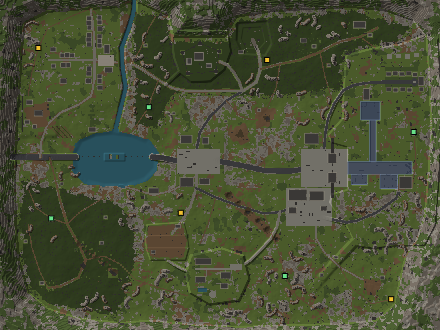
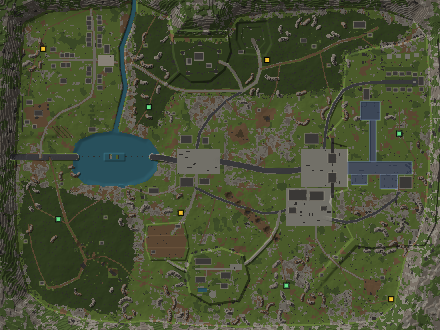
Green Gate: original layout (gatekeeping valley)
A new map replacing the traced one: the highway crosses Lake Liquidity
on a causeway whose middle spans fell in, passes the Toll Booth of
Eternal Hold Music and ends at the Gatekeeping Department; Tunnel
Vision runs behind it into the Shelf plateau with walkable-lid halls.
Terrace village, hill fort, quarry and sawmill in the north; mesa
retreat, orchard and crash site in the south. 28 joke-named POIs (all
quest POI ids kept), 4 airshafts and 4 Doggy Doors, all key rooms,
boss arenas and the Forgot My Password printers and control room.
Design note in docs/maps/green_gate.md.

Claude-Session: https://claude.ai/code/session_0176WVouALqdyXwiLjshbKz3

diff --git a/src/maps/green_gate.js b/src/maps/green_gate.js
@@ -182,7 +182,7 @@ export default {
       [730, 80, 810, 170], [870, 40, 960, 110], [630, 260, 700, 320], [360, 540, 480, 660], [460, 610, 630, 770], [540, 470, 720, 620], [170, 590, 310, 710], [80, 690, 150, 750],
       [880, 640, 1000, 780], [340, 440, 420, 500], [210, 310, 270, 345], [570, 300, 640, 370], [780, 620, 880, 720]];
     for (const r of RES) mark(...r, 4);
-    for (const [x, z, r] of [[1034, 330, 12], [372, 268, 12], [146, 548, 12], [716, 714, 12], [668, 150, 6], [452, 532, 6], [978, 748, 6], [108, 122, 6], ...SPAWNS.map(([x, z]) => [x, z, 12])]) mark(x - r, z - r, x + r, z + r, 4);
+    for (const [x, z, r] of [[998, 334, 12], [372, 268, 12], [146, 548, 12], [716, 714, 12], [668, 150, 6], [452, 532, 6], [978, 748, 6], [108, 122, 6], ...SPAWNS.map(([x, z]) => [x, z, 12])]) mark(x - r, z - r, x + r, z + r, 4);
     for (const [pts, hw] of [[HWY_W, 9], [HWY_E, 9], [HWY_C, 10], [R_VILLAGE, 5], [R_VX, 4], [R_SPURW, 5], [R_FORT, 5], [R_NORTH, 5], [R_NE, 5], [R_GLADE, 4], [R_SHELFN, 5], [R_SHELFS, 5],
       [R_SOUTH, 5], [R_SE, 5], [R_PEAK, 5], [R_LAKE, 4], [R_SW, 4], [R_SEE, 4]]) markLine(pts, hw, 1);
     markLine(CREEK, 10, 8); markPoly(LAKE, 8); markLine([[190, 392], [380, 392]], 9, 1);
@@ -286,7 +286,7 @@ export default {
       [[850, 668], [880, 720], [930, 760], [978, 748]],
       [[300, 464], [250, 500], [200, 530], [168, 560]],
       [[120, 720], [100, 680], [80, 620], [70, 560]],
-      [[1000, 260], [1034, 330], [1040, 400], [1030, 470]],
+      [[1000, 260], [998, 334], [1040, 400], [1030, 470]],
     ]) { const P = resample(t, 5); w.path(P, 2.6, 'dirt'); markLine(P, 1.6, 1); }
 
     // ======================================================================== 3. STRUCTURE HELPERS
@@ -799,7 +799,7 @@ export default {
       for (const [x, z] of [[908, 262], [908, 284], [930, 284]]) w.prop('gg_coolers', x, z, 0, { surface: true, solid: true });
       w.prop('gg_bb_cloud', 954, 252, 0, { solid: true });
       for (const [x, z] of [[952, 272], [952, 286]]) lightPost(x, z, 0x9ad0ff);
-      airshaftSite('rage_quit_airshaft', 'Rage Quit Airshaft', 1034, 330, faceTo(1034, 330, 1020, 330));
+      airshaftSite('rage_quit_airshaft', 'Rage Quit Airshaft', 998, 334, faceTo(998, 334, 984, 334));
       w.arkSpawn('surveyor', 990, 330, { count: 1, patrol: [[960, 300], [1040, 280], [1050, 400], [960, 380]] });
       w.arkSpawn('rocketeer', 960, 360, { count: 1, patrol: [[900, 320], [1040, 320], [1040, 520], [900, 520]] });
       w.zone('Shelf', SHELF, { tier: 2 });
@@ -1306,7 +1306,7 @@ export default {
       w.prop('gg_hottub', 958, 708, 0, { solid: true });
       for (const [x, z, k] of [[916, 708, 'backpack'], [940, 700, 'suitcase'], [912, 728, 'basket'], [946, 732, 'medical_bag']]) w.container(k, x, z, 0, { tier: 1, poi: 'glamping_site' });
       w.arkSpawn('pop', 930, 720, { count: 2 }); w.arkSpawn('hornet', 930, 720, { count: 1, patrol: [[890, 680], [970, 680], [980, 760], [900, 770]] });
-      w.poi('glamping_site', 'Glamping Pyramid Scheme', 930, 716, 30, { tier: 1 });
+      w.poi('glamping_site', 'Glamping Pyramid Scheme', 930, 730, 32, { tier: 1 });
       hatchSite('glampsite_doggy_door', 'Glampsite Doggy Door', 978, 748, faceTo(978, 748, 960, 740));
     }
 

diff --git a/docs/maps/green_gate.md b/docs/maps/green_gate.md
@@ -65,7 +65,7 @@ Quest-referenced ids are marked ★ (ids are internal and never change).
 ## Extractions
 | id | Name | Kind | Where |
 |---|---|---|---|
-| rage_quit_airshaft | Rage Quit Airshaft | airshaft | the Shelf, east (1034, 330) |
+| rage_quit_airshaft | Rage Quit Airshaft | airshaft | the Shelf, east (998, 334) |
 | severance_airshaft | Severance Package Airshaft | airshaft | creek valley north of the lake (372, 268) |
 | early_retirement_airshaft | Early Retirement Airshaft | airshaft | south-west woods (146, 548) |
 | two_weeks_notice_airshaft | Two Weeks' Notice Airshaft | airshaft | south, east of the mesa (716, 714) |
